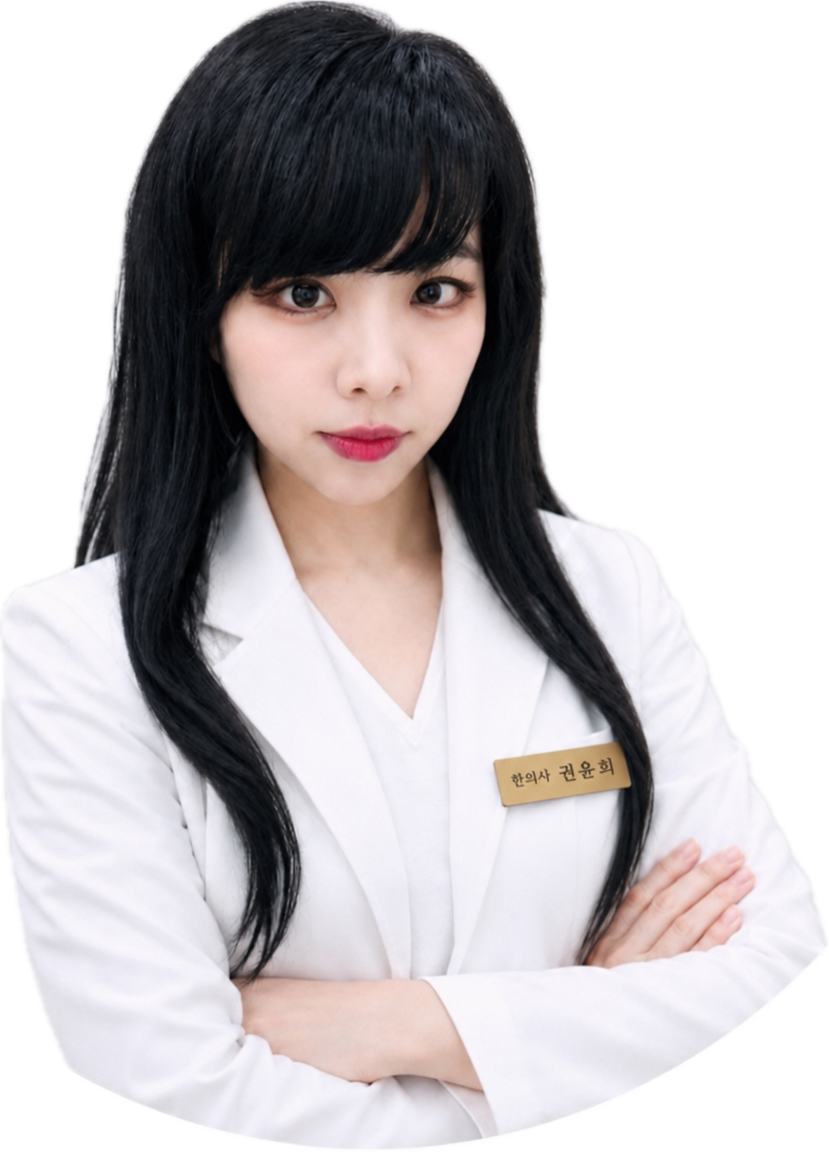
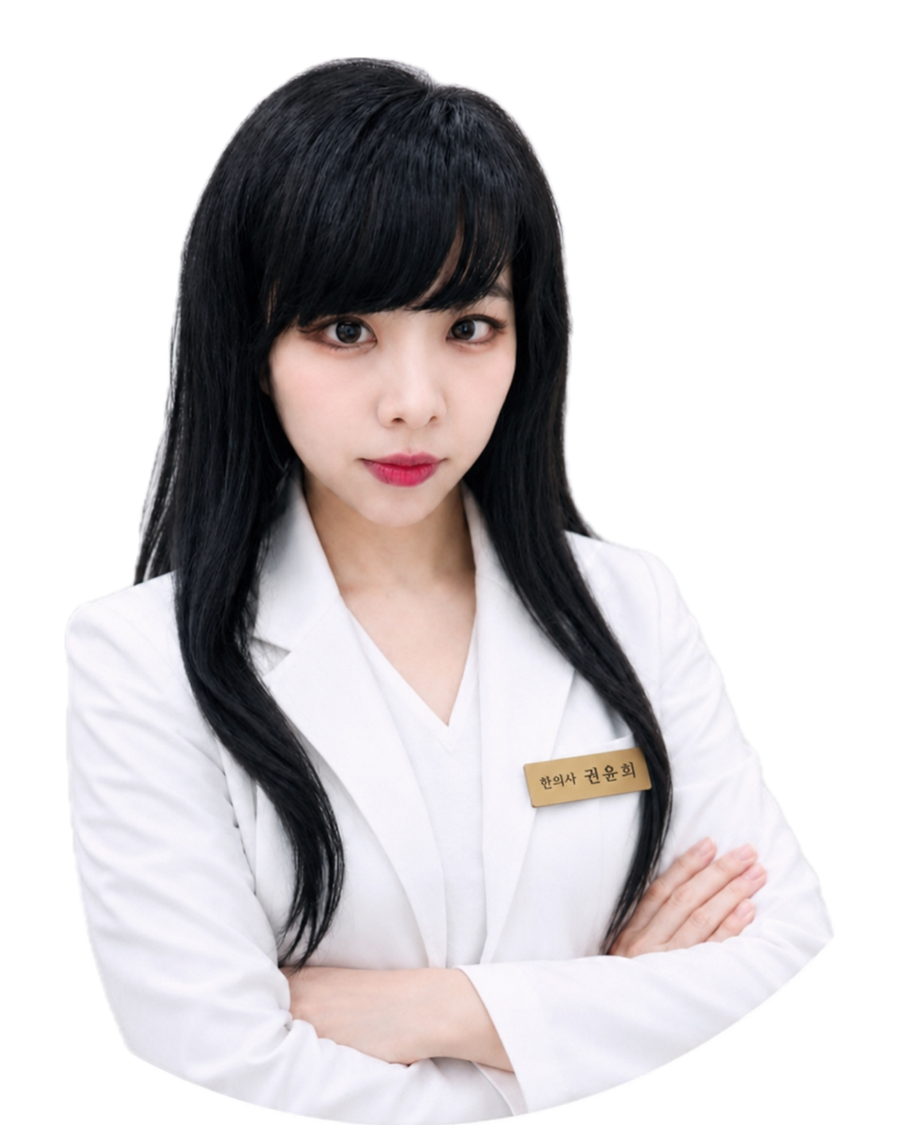
[디자인] 원장 사진 동일 규격 재컷팅으로 통일감 확보
- 권윤희·최종구 원장 사진을 동일 기준(4:5, 머리 위 여백 7%, 인물 크기 통일)으로 재컷팅
- 이미지에 여백을 내장해 doc-photo 프레임의 보정용 padding 제거

diff --git a/index.html b/index.html
@@ -776,8 +776,7 @@ section { padding: 96px 28px; }
   position: relative; aspect-ratio: 4/5;
   background: var(--cloud);
   border-right: 1px solid var(--border2);
-  /* 원본 컷아웃마다 여백이 달라 프레임 자체에 여백을 둬 인물이 모서리에 닿지 않게 한다 */
-  padding: 22px 20px 0;
+  /* 원장 사진은 동일 규격(4:5, 머리 위 여백 7%, 인물 크기 통일)으로 재컷팅되어 있어 프레임 보정 여백이 필요 없다 */
   display: flex; align-items: flex-end; justify-content: center; overflow: hidden;
 }
 /* <picture>가 실제 플렉스 아이템이므로 프레임을 가득 채워야 img의 100%가 프레임 기준이 된다 */
